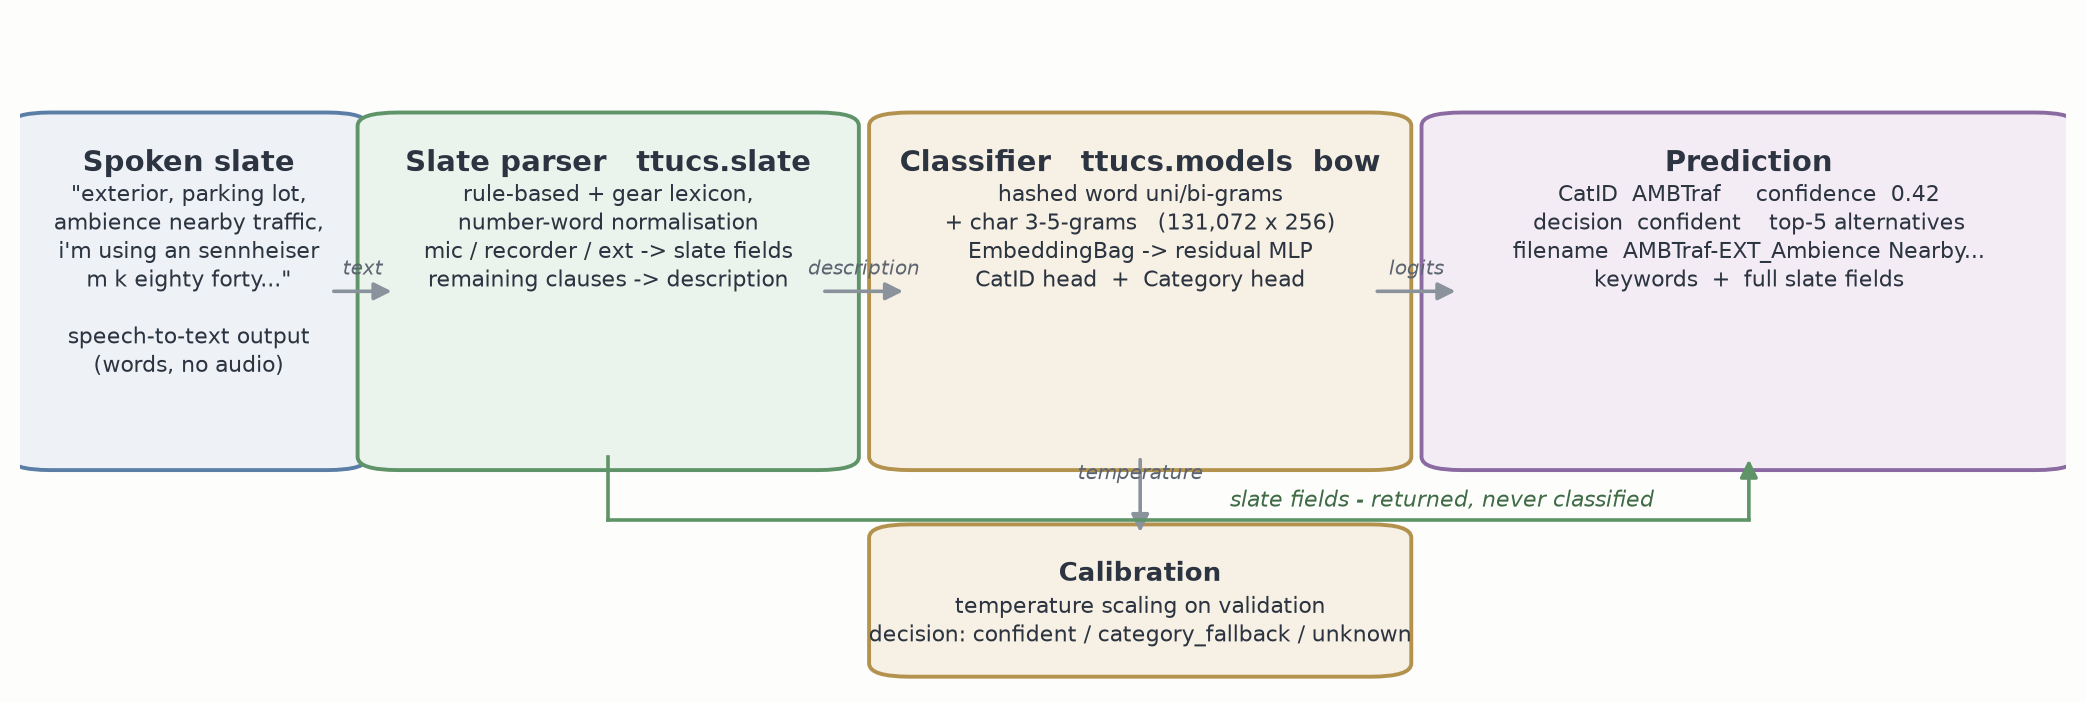
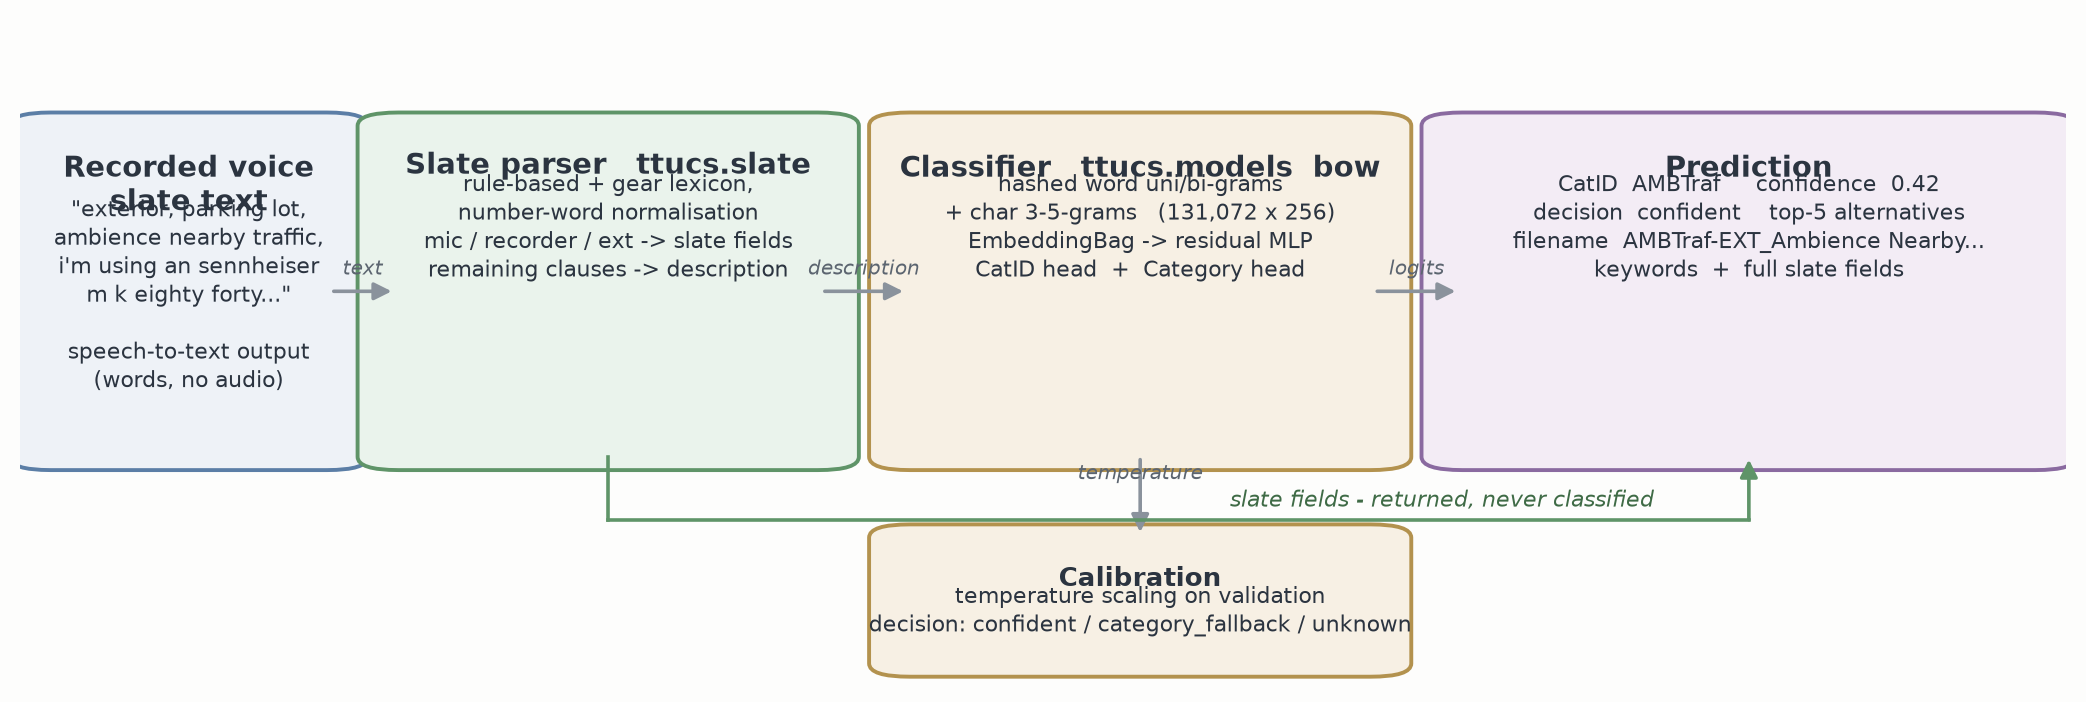
docs: rename diagram stage to recorded voice slate text, add step-by-step
Stage 1 of the diagram is now 'Recorded voice slate text'. The README gains a
7-step walkthrough under the diagram (transcript -> normalise -> parse ->
assemble description -> classify -> calibrate+decide -> outputs), fact-checked
against the code and the weights: 738 trainable CatIDs, 81 categories (from
the category-head shape), 'dual a b' and 'm k eighty forty' examples from the
Metrotown slate.

diff --git a/scripts/render_architecture.py b/scripts/render_architecture.py
@@ -25,10 +25,12 @@ BOX = dict(boxstyle="round,pad=0.02", linewidth=1.4)
 
 def box(ax, x, y, w, h, title, lines, family, title_size=10.5):
     ax.add_patch(FancyBboxPatch((x, y), w, h, facecolor=STAGE[family], edgecolor=EDGE[family], **BOX))
+    n_title = title.count("\n") + 1
     ax.text(x + w / 2, y + h - 0.035, title, ha="center", va="top", fontsize=title_size,
-            fontweight="bold", color=TEXT)
+            fontweight="bold", color=TEXT, linespacing=1.15)
+    y0 = y + h - 0.035 - 0.038 * n_title
     for i, line in enumerate(lines):
-        ax.text(x + w / 2, y + h - 0.088 - i * 0.043, line, ha="center", va="top",
+        ax.text(x + w / 2, y0 - i * 0.043, line, ha="center", va="top",
                 fontsize=7.9, color=TEXT)
 
 
@@ -50,7 +52,7 @@ def main() -> None:
     top, height = 0.34, 0.50  # main flow band: y 0.34 .. 0.84
 
     # ---- stage 1: speech to text
-    box(ax, 0.015, top, 0.135, height, "Spoken slate",
+    box(ax, 0.015, top, 0.135, height, "Recorded voice\nslate text",
         ['"exterior, parking lot,', 'ambience nearby traffic,', "i'm using an sennheiser",
          'm k eighty forty..."', "", "speech-to-text output", "(words, no audio)"], 0)
 

diff --git a/README.md b/README.md
@@ -34,6 +34,34 @@ never used for classification.
 
 Regenerate with `python scripts/render_architecture.py` (needs `pip install matplotlib`).
 
+**Step by step, from spoken slate to finished UCS metadata:**
+
+1. **Transcript in** — a voice recorder or dictation app turns the spoken slate into plain text.
+   Spoken numbers and letters arrive mangled ("m k eighty forty", "ninety six k"); ttucs works from
+   this raw STT text, never audio.
+2. **Normalise** — `ttucs.slate.normalize` repairs STT quirks: number words become digits
+   ("ninety six k" → "96 k"), dropped letters are restored ("m k eighty forty" → "mk 8040"),
+   filler words are dropped.
+3. **Parse** — `ttucs.slate.parse_slate` runs rule-based patterns plus the gear lexicon over the
+   normalised text. Gear ("sennheiser mkh 416" → `Sennheiser MKH 416`, "dual a b" →
+   `Spaced Pair (AB)`), recorder, sample rate, take, scene, perspective (EXT/INT), project,
+   location and date are lifted into typed slate fields. Everything left over is treated as a
+   description clause; perspective-only words and stray mic-brand fragments are kept out of it.
+4. **Assemble the description** — description clauses are joined (an explicit "recording …" cue
+   absorbs the content clauses that follow it; without a cue, all content clauses join), e.g.
+   "ambience nearby traffic in metrotown area, crossing sign, children playing in a nearby park, wind".
+5. **Classify** — the description only (slate fields never reach the model) is hashed into word
+   uni/bi-grams and char 3–5-grams over 131,072 buckets, averaged by the EmbeddingBag, passed
+   through a small residual MLP, and scored by both heads: 738 trainable UCS CatIDs across 81
+   categories (753 total, ARCHIVED workflow category excluded).
+6. **Calibrate + decide** — logits are temperature-scaled (fitted on validation data) into
+   probabilities; the decision rule labels the result `confident`, `category_fallback` (sure of
+   the category but not the CatID → the category's MISC CatID) or `unknown`.
+7. **Build the outputs** — ttucs returns the CatID, calibrated confidence, top-k alternatives and
+   category scores, the full slate fields, suggested UCS keywords, and a UCS-conformant filename
+   like `AMBTraf-EXT_Ambience Nearby Traffic_JEAud_AmbMetro_CMC41` (CatID_FX Name_CreatorID_
+   SourceID[_UserData]) — ready to paste into Soundminer, BaseHead or your own library tool.
+
 ## Install
 
 | what | command |
